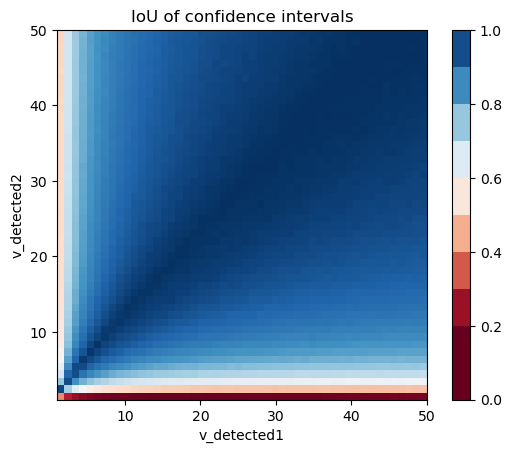
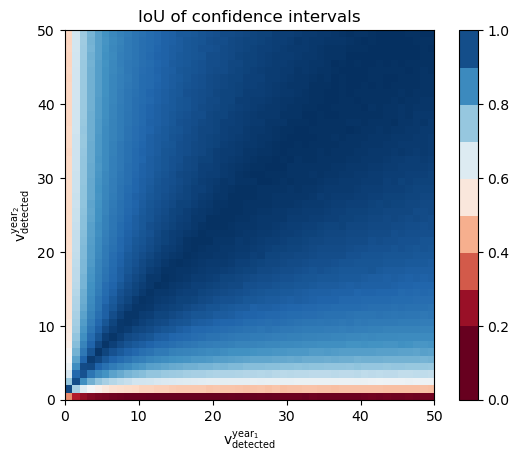
Reliability plots slightly modified

Changed region(s): [[0.0, 0.0, 0.8513, 0.989], [0.8806, 0.0618, 0.998, 0.8962]]

diff --git a/figures/reliability1.tex b/figures/reliability1.tex
@@ -1,0 +1,39 @@
+% This file was created with tikzplotlib v0.10.1.
+\begin{tikzpicture}
+
+\definecolor{darkgray176}{RGB}{176,176,176}
+
+\begin{axis}[
+colorbar,
+colorbar style={ytick={0.195847131473187,0.356005065650509,0.51616299982783,0.676320934005152,0.836478868182474,0.996636802359795},yticklabels={0.0,0.2,0.4,0.6,0.8,1.0},ylabel={}},
+colormap={mymap}{[1pt]
+  rgb(0pt)=(0.403921568627451,0,0.12156862745098);
+  rgb(1pt)=(0.698039215686274,0.0941176470588235,0.168627450980392);
+  rgb(2pt)=(0.83921568627451,0.376470588235294,0.301960784313725);
+  rgb(3pt)=(0.956862745098039,0.647058823529412,0.509803921568627);
+  rgb(4pt)=(0.992156862745098,0.858823529411765,0.780392156862745);
+  rgb(5pt)=(0.968627450980392,0.968627450980392,0.968627450980392);
+  rgb(6pt)=(0.819607843137255,0.898039215686275,0.941176470588235);
+  rgb(7pt)=(0.572549019607843,0.772549019607843,0.870588235294118);
+  rgb(8pt)=(0.262745098039216,0.576470588235294,0.764705882352941);
+  rgb(9pt)=(0.129411764705882,0.4,0.674509803921569);
+  rgb(10pt)=(0.0196078431372549,0.188235294117647,0.380392156862745)
+},
+point meta max=0.996636802359795,
+point meta min=0.195847131473187,
+tick align=outside,
+tick pos=left,
+title={IoU of confidence intervals},
+x grid style={darkgray176},
+xlabel={\(\displaystyle \mathrm{v}_{\mathrm{detected}}^{\mathrm{year}_1}\)},
+xmin=0, xmax=50,
+xtick style={color=black},
+y grid style={darkgray176},
+ylabel={\(\displaystyle \mathrm{v}_{\mathrm{detected}}^{\mathrm{year}_2}\)},
+ymin=0, ymax=50,
+ytick style={color=black}
+]
+\addplot graphics [includegraphics cmd=\pgfimage,xmin=0, xmax=50, ymin=0, ymax=50] {reliability1-000.png};
+\end{axis}
+
+\end{tikzpicture}

diff --git a/notebooks/main.py b/notebooks/main.py
@@ -5,6 +5,7 @@ import os
 import pandas
 import numpy as np
 import matplotlib.pyplot as plt
+import tikzplotlib
 from analysis import plot_confidence, plot_sd, plot_k, compute_ious, plot_reliability0, plot_reliability1
 from utilities import create_gif
 
@@ -52,11 +53,15 @@ create_gif(fun, np.arange(1, 11, 1), file_name)
 v1s = np.arange(1, 51, 1)
 v2s = np.arange(1, 51, 1)
 m = compute_ious(v1s, v2s, 1e-4, 1e-4, n=1000000)
-plot_reliability0(m, v1s, v2s, title='IoU of confidence intervals')
+plot_reliability0(m, v1s, v2s, title='IoU of confidence intervals', xlabel='$\mathrm{v}_{\mathrm{detected}}^{\mathrm{year}_1}$', ylabel='$\mathrm{v}_{\mathrm{detected}}^{\mathrm{year}_2}$')
+tikzplotlib.save(os.path.join('figures', 'reliability1.tex'))
 plt.savefig(os.path.join('figures', 'reliability1.png'), bbox_inches='tight')
 plot_reliability1(m, v1s, v2s)
 plt.savefig(os.path.join('figures', 'reliability2.png'), bbox_inches='tight')
 
+dict = {'v1': v1s, 'IoU': [np.min(m[i:,i:]) for i in range(len(v1s))]}
+df = pandas.DataFrame(dict)
+df.to_csv(os.path.join('figures', 'reliability2.csv'), index=False)
 
 
 '''
